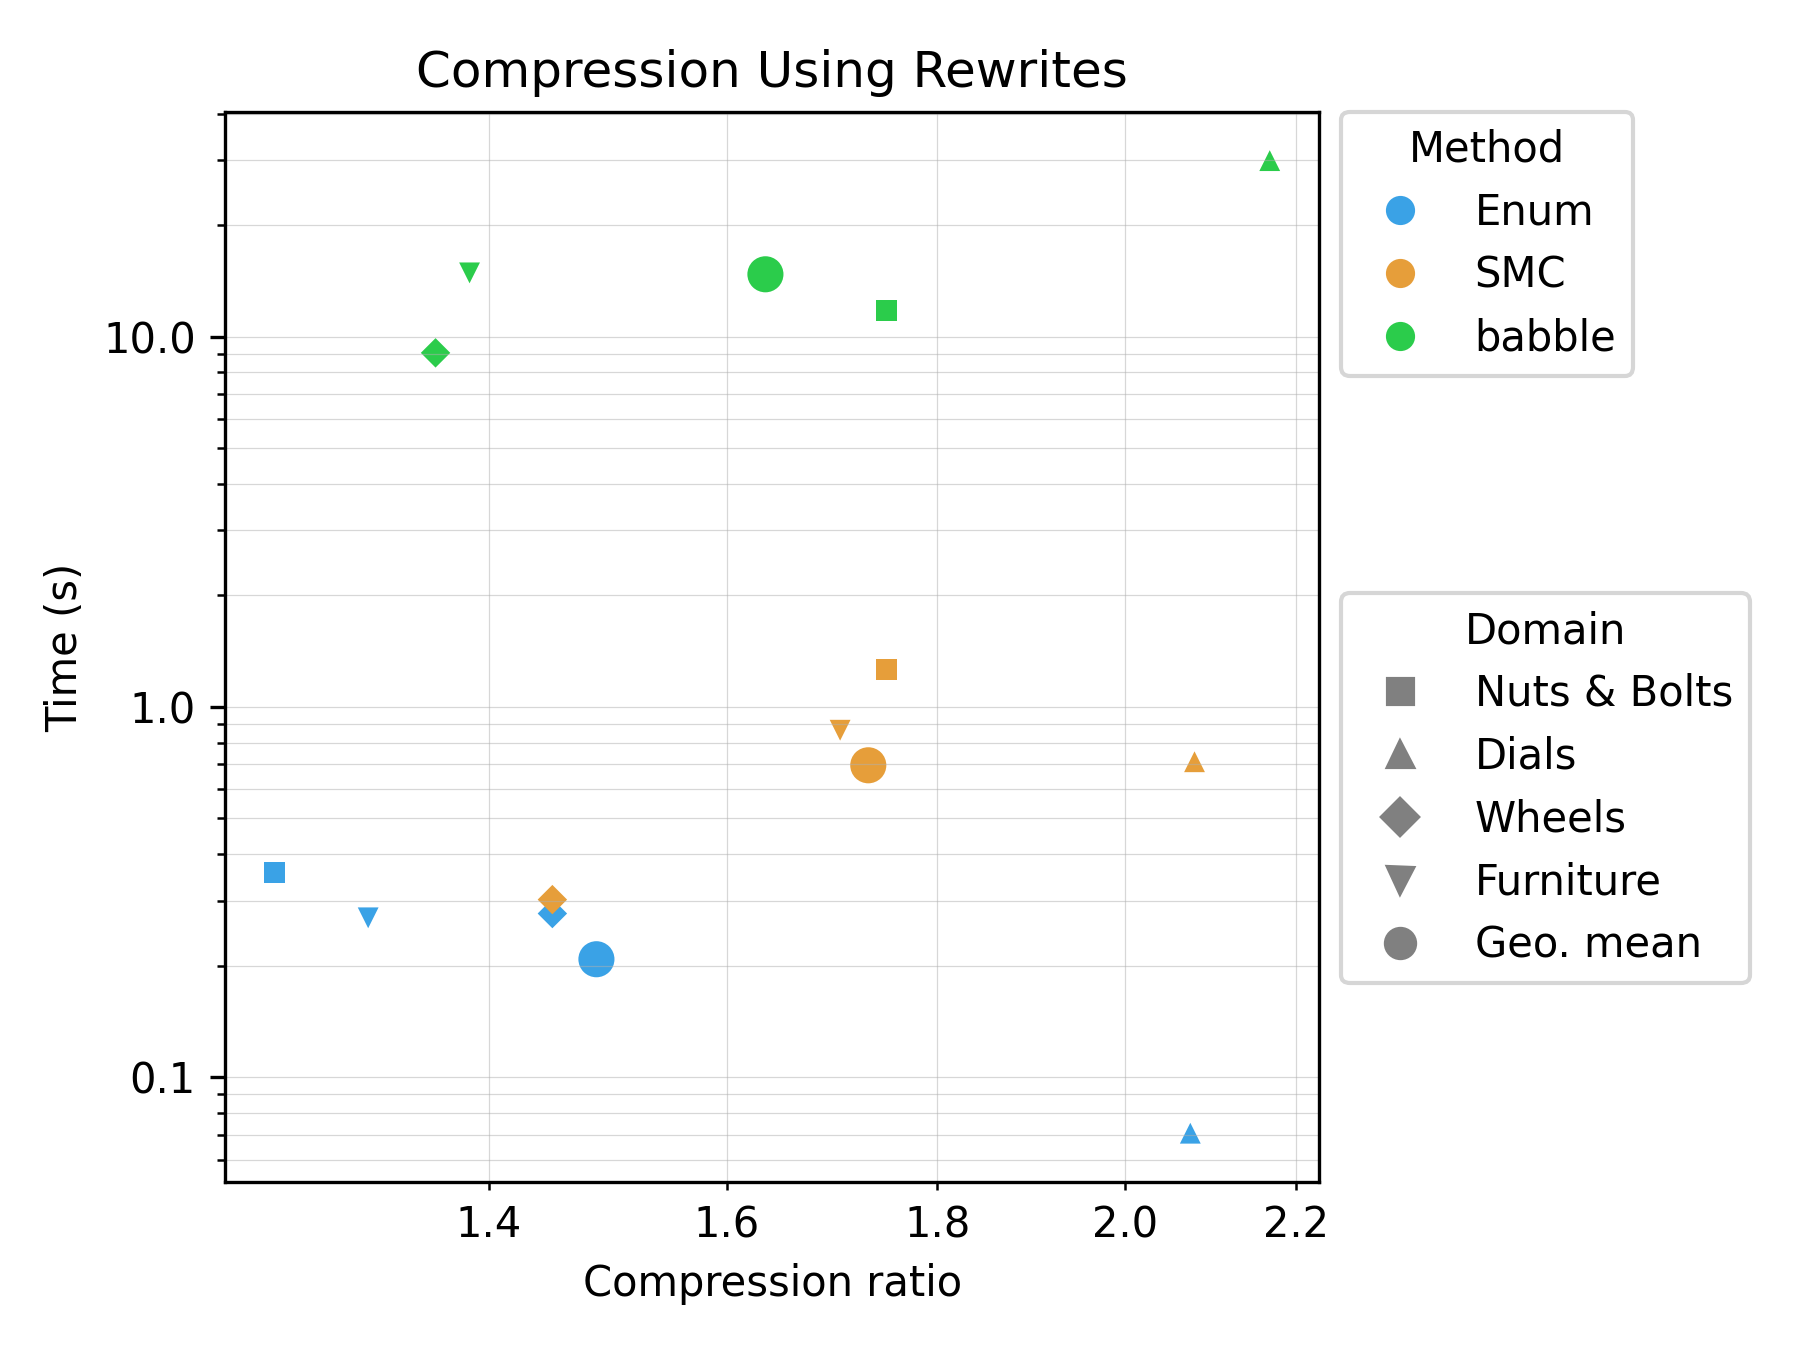
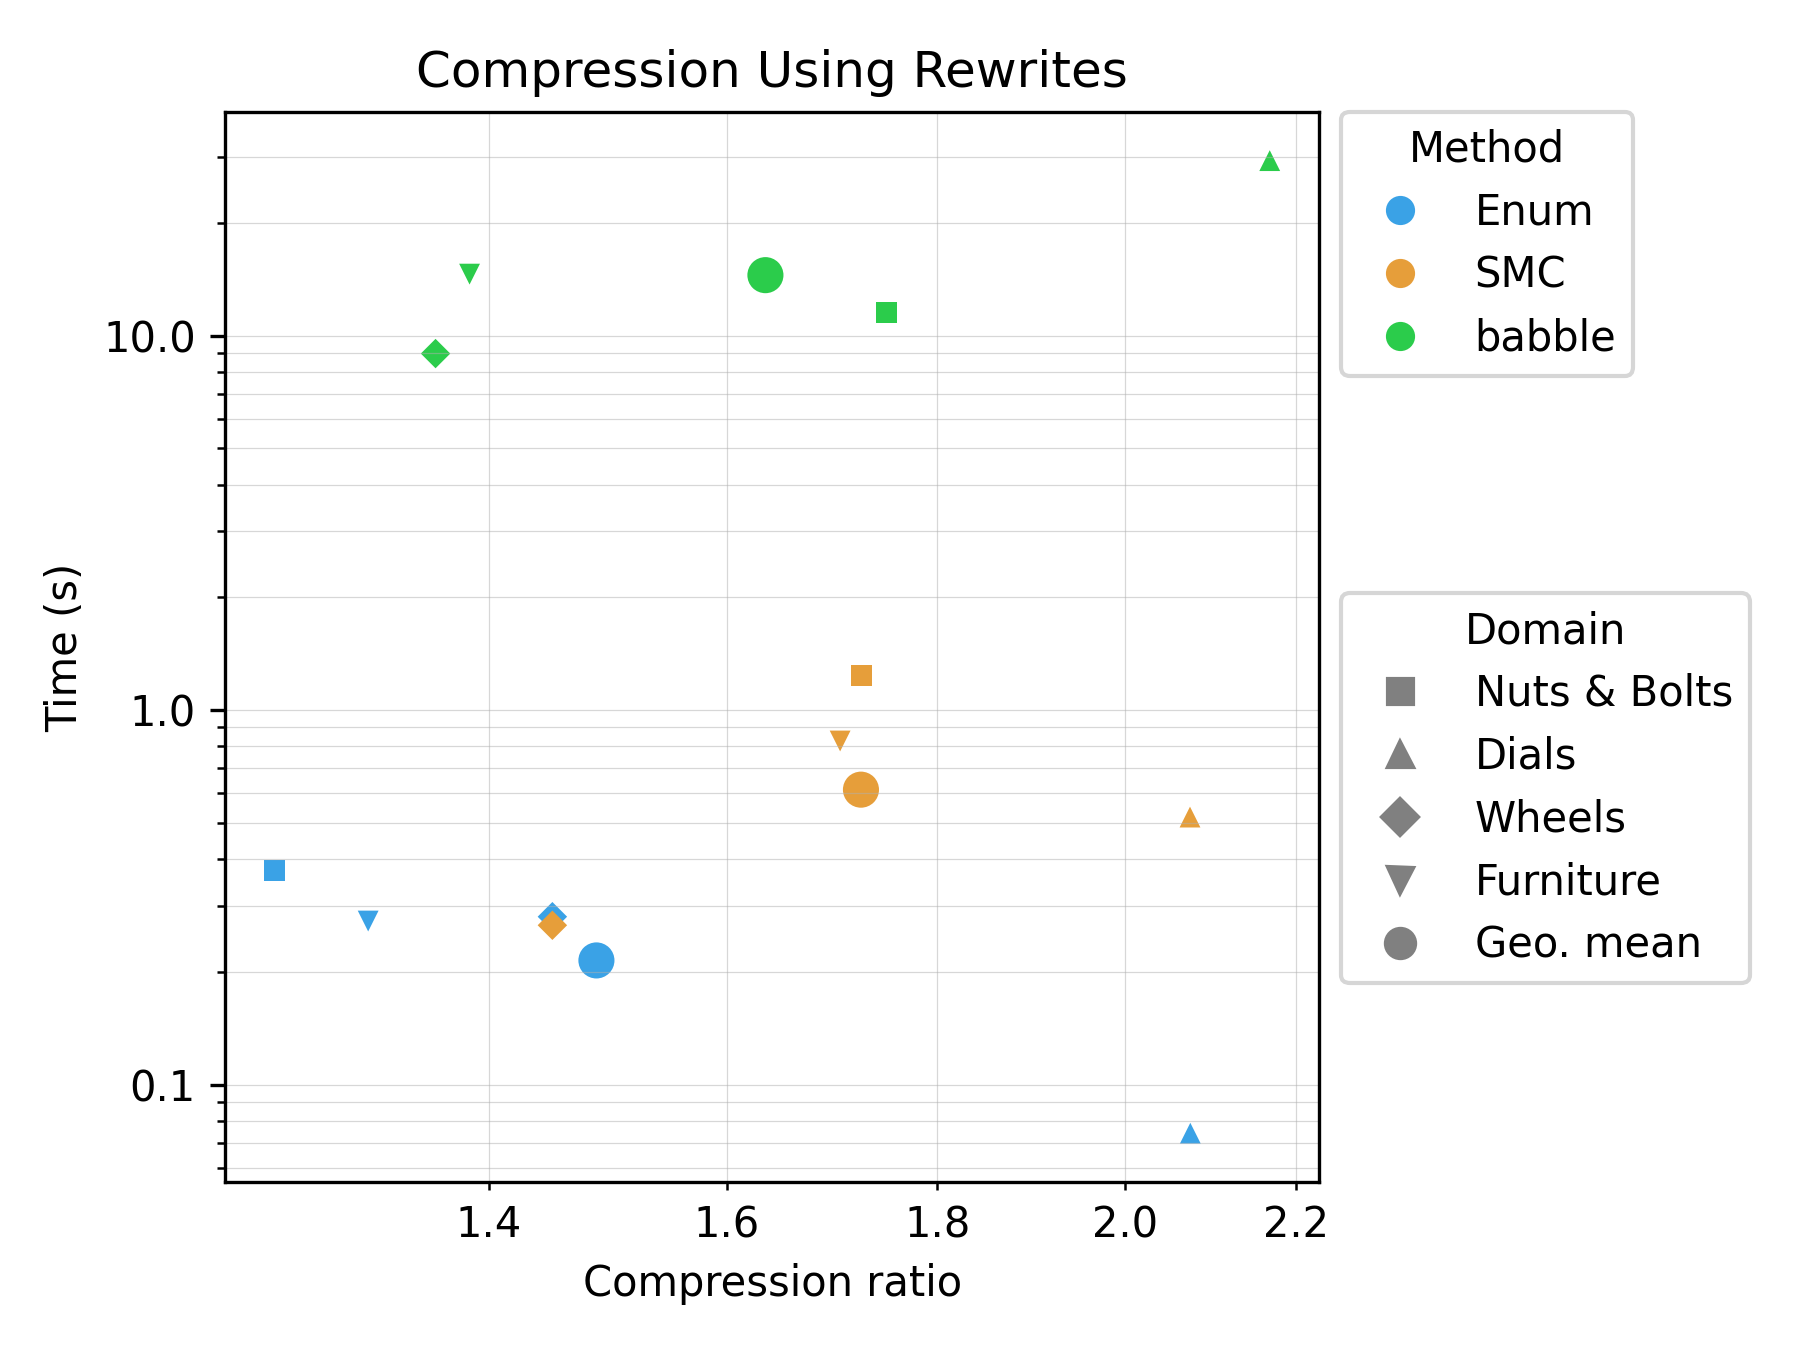
add a tables 3/4 in, these are the 20x version of tables 1/2 (#49)

diff --git a/expts/table3.py b/expts/table3.py
@@ -1,0 +1,36 @@
+"""Table 3 experiment: same as Table 1 but with ``num_abstractions=20``.
+
+Thin wrapper that delegates to :func:`expts.table1.table1`, swapping the
+results folder, output filename, title, and forwarding
+``num_abstractions=20`` so each run stacks 20 abstractions sequentially
+(rather than the single abstraction used by Table 1).
+"""
+
+from pathlib import Path
+
+from .table1 import print_table1, table1
+
+NUM_ABSTRACTIONS = 20
+
+TABLE3_TITLE = (
+    f"Table 3: Ours (SMC and Enum) vs Babble on benchmarks with "
+    f"domain-specific rewrites, stacking {NUM_ABSTRACTIONS} abstractions"
+)
+
+
+def table3(**kwargs) -> Path:
+    """Run the Table 1 setup with ``num_abstractions={NUM_ABSTRACTIONS}``.
+
+    Any keyword arguments accepted by :func:`table1` can be passed through.
+    """
+    kwargs.setdefault("num_abstractions", NUM_ABSTRACTIONS)
+    kwargs.setdefault("rebuild_egraph", True)
+    kwargs.setdefault("folder_prefix", "table3")
+    kwargs.setdefault("output_name", "table3.json")
+    kwargs.setdefault("title", TABLE3_TITLE)
+    return table1(**kwargs)
+
+
+def print_table3(path: str | Path) -> None:
+    """Pretty-print a saved Table 3 JSON (reuses Table 1's renderer)."""
+    print_table1(path)

diff --git a/expts/table4.py b/expts/table4.py
@@ -1,0 +1,36 @@
+"""Table 4 experiment: same as Table 2 but with ``num_abstractions=20``.
+
+Thin wrapper that delegates to :func:`expts.table2.table2`, swapping the
+results folder, output filename, title, and forwarding
+``num_abstractions=20`` so each run stacks 20 abstractions sequentially
+(rather than the single abstraction used by Table 2).
+"""
+
+from pathlib import Path
+
+from .table2 import print_table2, table2
+
+NUM_ABSTRACTIONS = 20
+
+TABLE4_TITLE = (
+    f"Table 4: Ours (SMC and Enum) vs Babble vs Stitch on benchmarks "
+    f"without DSRs, stacking {NUM_ABSTRACTIONS} abstractions"
+)
+
+
+def table4(**kwargs) -> Path:
+    """Run the Table 2 setup with ``num_abstractions={NUM_ABSTRACTIONS}``.
+
+    Any keyword arguments accepted by :func:`table2` can be passed through.
+    """
+    kwargs.setdefault("num_abstractions", NUM_ABSTRACTIONS)
+    kwargs.setdefault("rebuild_egraph", True)
+    kwargs.setdefault("folder_prefix", "table4")
+    kwargs.setdefault("output_name", "table4.json")
+    kwargs.setdefault("title", TABLE4_TITLE)
+    return table2(**kwargs)
+
+
+def print_table4(path: str | Path) -> None:
+    """Pretty-print a saved Table 4 JSON (reuses Table 2's renderer)."""
+    print_table2(path)

diff --git a/expts/table2.py b/expts/table2.py
@@ -22,21 +22,38 @@ from .table1 import TABLE1_DOMAINS, DOMAIN_LABELS, NUM_RUNS
 TABLE2_DOMAINS = TABLE1_DOMAINS
 
 
+DEFAULT_TABLE2_TITLE = "Table 2: Ours (SMC and Enum) vs Babble vs Stitch on benchmarks without DSRs"
+
+MAX_ARITY = 2
+
+
 def table2(
     *,
     smc_num_steps: int = 100,
     smc_num_particles: int = 1000,
     smc_temperature: float = 1000.0,
     enum_num_steps: int = 500,
+    num_abstractions: int = 1,
+    rebuild_egraph: bool = False,
+    folder_prefix: str = "table2",
     output_name: str = "table2.json",
+    title: str = DEFAULT_TABLE2_TITLE,
 ) -> Path:
-    """Run Enum, SMC, babble, and Stitch on the four domains with no DSRs."""
+    """Run Enum, SMC, babble, and Stitch on the four domains with no DSRs.
+
+    ``num_abstractions`` is forwarded to every compressor so each run
+    stacks that many abstractions sequentially.
+    """
     assert all(d in ALL_DOMAINS for d in TABLE2_DOMAINS), "domain typo"
-    set_folder(f"table2/{time.strftime('%Y-%m-%d_%H-%M-%S')}")
+    set_folder(f"{folder_prefix}/{time.strftime('%Y-%m-%d_%H-%M-%S')}")
     results: dict = {
+        "title": title,
         "config": {
             "smc": {"num_steps": smc_num_steps, "num_particles": smc_num_particles, "temperature": smc_temperature},
             "enum": {"num_steps": enum_num_steps},
+            "num_abstractions": num_abstractions,
+            "rebuild_egraph": rebuild_egraph,
+            "max_arity": MAX_ARITY,
         },
         "domains": {},
     }
@@ -46,16 +63,19 @@ def table2(
         enum_runs, smc_runs, babble_runs, stitch_runs = [], [], [], []
         for i in range(NUM_RUNS):
             print(f"  run {i+1}/{NUM_RUNS}", flush=True)
-            enum_res, _ = run_ours(domain, "best-first", num_steps=enum_num_steps, rewrites=None)
+            enum_res, _ = run_ours(domain, "best-first", num_steps=enum_num_steps, rewrites=None, num_abstractions=num_abstractions, rebuild_egraph=rebuild_egraph, max_arity=MAX_ARITY)
             smc_res, _ = run_ours(
                 domain, "smc",
                 num_steps=smc_num_steps,
                 num_particles=smc_num_particles,
                 temperature=smc_temperature,
                 rewrites=None,
+                num_abstractions=num_abstractions,
+                rebuild_egraph=rebuild_egraph,
+                max_arity=MAX_ARITY,
             )
-            babble_res = run_babble(domain)
-            stitch_res = run_stitch(domain)
+            babble_res = run_babble(domain, num_abstractions=num_abstractions, max_arity=MAX_ARITY)
+            stitch_res = run_stitch(domain, num_abstractions=num_abstractions, max_arity=MAX_ARITY)
             enum_runs.append(enum_res.to_dict())
             smc_runs.append(smc_res.to_dict())
             babble_runs.append(babble_res.to_dict())
@@ -93,7 +113,7 @@ def print_table2(path: str | Path) -> None:
         f"{'Enum':>10}{'SMC':>10}{'babble':>8}{'Stitch':>8}"
     )
     print()
-    print("Table 2: Ours (SMC and Enum) vs Babble vs Stitch on benchmarks without DSRs")
+    print(saved.get("title", DEFAULT_TABLE2_TITLE))
     print()
     print(header_top)
     print(header_sub)

diff --git a/scripts/render_tables.py b/scripts/render_tables.py
@@ -1,5 +1,5 @@
 #!/usr/bin/env python3
-"""Render Table 1 / Table 2 JSON result files as LaTeX tabulars (and plots).
+"""Render Table 1-4 JSON result files as LaTeX tabulars (and plots).
 
 By default, picks the newest timestamped run under
 ``viz/results/tableN/<timestamp>/tableN.json``. Pass an explicit JSON path to
@@ -28,7 +28,14 @@ DOMAIN_LABELS = {
 }
 METHODS = ["enum", "smc", "babble", "stitch"]
 METHOD_LABELS = {"enum": "Enum", "smc": "SMC", "babble": "babble", "stitch": "Stitch"}
-TABLE_TITLES = {1: "Compression Using Rewrites", 2: "Compression Without Rewrites"}
+TABLE_TITLES = {
+    1: "Compression Using Rewrites",
+    2: "Compression Without Rewrites",
+    3: "Compression Using Rewrites, Stacked Abstractions",
+    4: "Compression Without Rewrites, Stacked Abstractions",
+}
+# Tables that include an "E-graph min term size" column (runs with DSRs).
+TABLES_WITH_EGRAPH_MIN = {1, 3}
 
 # Plot styling: each method gets a color, each domain a marker. Keeping these
 # as module-level dicts makes it easy to extend with new methods/domains.
@@ -125,13 +132,14 @@ def bold_best(xs: list[float | None], spec: str,
 def render(saved: dict, table: int) -> str:
     """Return a LaTeX ``tabular`` string for the given loaded results dict."""
     domains = saved["domains"]
-    # Table 1 runs with DSRs which Stitch doesn't accept; show the column
-    # anyway with N/A so the layout matches Table 2.
+    # Tables 1 & 3 run with DSRs (which Stitch doesn't accept); show the
+    # Stitch column anyway with N/A so the layout matches Table 2.
     methods = METHODS
     n = len(methods)
+    has_egraph_min = table in TABLES_WITH_EGRAPH_MIN
 
-    # Column layout: domain, original size, (egraph-min for table1,) CRs, times.
-    extra_col = "r" if table == 1 else ""
+    # Column layout: domain, original size, (egraph-min for DSR tables,) CRs, times.
+    extra_col = "r" if has_egraph_min else ""
     col_spec = "l r " + extra_col + " " + ("r" * n) + " " + ("r" * n)
 
     lines = []
@@ -140,7 +148,7 @@ def render(saved: dict, table: int) -> str:
     lines.append("\\toprule")
 
     # Header row 1: group spans.
-    size_cols = 2 if table == 1 else 1
+    size_cols = 2 if has_egraph_min else 1
     lines.append(
         f"& \\multicolumn{{{size_cols}}}{{c}}{{Size}} "
         f"& \\multicolumn{{{n}}}{{c}}{{Compression Ratio}} "
@@ -155,7 +163,7 @@ def render(saved: dict, table: int) -> str:
     lines.append(" ".join(mid))
 
     # Header row 2: column names.
-    size_hdr = "Original & E-graph min" if table == 1 else "Original"
+    size_hdr = "Original & E-graph min" if has_egraph_min else "Original"
     method_hdr = " & ".join(METHOD_LABELS[m] for m in methods)
     lines.append(
         f"Domain & {size_hdr} & {method_hdr} & {method_hdr} \\\\"
@@ -186,7 +194,7 @@ def render(saved: dict, table: int) -> str:
 
     for label, original, egraph_min, crs, ts in rows:
         size_cells = [fmt(original, "d")]
-        if table == 1:
+        if has_egraph_min:
             size_cells.append(fmt(egraph_min, "d"))
         lines.append(emit(label, size_cells, crs, ts))
 
@@ -195,7 +203,7 @@ def render(saved: dict, table: int) -> str:
         lines.append("\\midrule")
         agg_cr = [geomean_col([r[3][i] for r in rows]) for i in range(n)]
         agg_t = [geomean_col([r[4][i] for r in rows]) for i in range(n)]
-        size_cells = ["" ] * (2 if table == 1 else 1)
+        size_cells = [""] * (2 if has_egraph_min else 1)
         lines.append(emit("Geo. mean", size_cells, agg_cr, agg_t))
 
     lines.append("\\bottomrule")
@@ -301,7 +309,7 @@ def main() -> None:
 
     FIGURES_DIR.mkdir(exist_ok=True)
     chunks = []
-    for table in (1, 2):
+    for table in (1, 2, 3, 4):
         path = latest_json(table)
         with open(path) as f:
             saved = json.load(f)

diff --git a/expts/table1.py b/expts/table1.py
@@ -30,6 +30,8 @@ DOMAIN_LABELS = {
 
 DEFAULT_TABLE1_TITLE = "Table 1: Ours (SMC and Enum) vs Babble on benchmarks with domain-specific rewrites"
 
+MAX_ARITY = 2
+
 
 def table1(
     *,
@@ -61,6 +63,7 @@ def table1(
             "enum": {"num_steps": enum_num_steps},
             "num_abstractions": num_abstractions,
             "rebuild_egraph": rebuild_egraph,
+            "max_arity": MAX_ARITY,
         },
         "domains": {},
     }
@@ -71,7 +74,7 @@ def table1(
         egraph_min = None
         for i in range(NUM_RUNS):
             print(f"  run {i+1}/{NUM_RUNS}", flush=True)
-            enum_res, egraph_min = run_ours(domain, "best-first", num_steps=enum_num_steps, num_abstractions=num_abstractions, rebuild_egraph=rebuild_egraph)
+            enum_res, egraph_min = run_ours(domain, "best-first", num_steps=enum_num_steps, num_abstractions=num_abstractions, rebuild_egraph=rebuild_egraph, max_arity=MAX_ARITY)
             smc_res, _ = run_ours(
                 domain, "smc",
                 num_steps=smc_num_steps,
@@ -79,8 +82,9 @@ def table1(
                 temperature=smc_temperature,
                 num_abstractions=num_abstractions,
                 rebuild_egraph=rebuild_egraph,
+                max_arity=MAX_ARITY,
             )
-            babble_res = run_babble(domain, dsr=rewrites_path(domain), num_abstractions=num_abstractions)
+            babble_res = run_babble(domain, dsr=rewrites_path(domain), num_abstractions=num_abstractions, max_arity=MAX_ARITY)
             enum_runs.append(enum_res.to_dict())
             smc_runs.append(smc_res.to_dict())
             babble_runs.append(babble_res.to_dict())

diff --git a/expts/egg_stitch.py b/expts/egg_stitch.py
@@ -42,7 +42,7 @@ def egg_stitch(input, output="out.json", rewrites=None, flamegraph=False, samply
 _UNSET = object()
 
 
-def run_ours(domain: str, search: str, *, num_steps: int, rewrites=_UNSET, **extra) -> tuple[Result, int | None]:
+def run_ours(domain: str, search: str, *, num_steps: int, max_arity: int, rewrites=_UNSET, **extra) -> tuple[Result, int | None]:
     """Run our compressor on ``domain``.
 
     ``rewrites`` defaults to the domain's standard rewrite file; pass
@@ -61,7 +61,7 @@ def run_ours(domain: str, search: str, *, num_steps: int, rewrites=_UNSET, **ext
         output=f"{domain}_{search.replace('-', '_')}.json",
         search=search,
         num_steps=num_steps,
-        max_arity=2,
+        max_arity=max_arity,
         **extra,
     )
     with open(output) as f:

diff --git a/expts/__init__.py b/expts/__init__.py
@@ -52,6 +52,8 @@ from .babble import *
 from .stitch import *
 from .table1 import *
 from .table2 import *
+from .table3 import *
+from .table4 import *
 
 
 

diff --git a/expts/babble.py b/expts/babble.py
@@ -7,7 +7,7 @@ from . import BABBLE_BIN, BABBLE_DIR
 from .result import Result, ratio
 
 
-def run_babble(domain: str, *, dsr: str | None = None, num_abstractions: int = 1) -> Result:
+def run_babble(domain: str, *, dsr: str | None = None, num_abstractions: int = 1, max_arity: int) -> Result:
     """Run babble on a cogsci ``domain`` and return a :class:`Result`.
 
     When ``dsr`` is provided, it is passed to babble as ``--dsr`` so the

diff --git a/expts/stitch.py b/expts/stitch.py
@@ -32,7 +32,7 @@ def ast_size(programs: list[str]) -> int:
     return total
 
 
-def run_stitch(domain: str, *, num_abstractions: int = 1) -> Result:
+def run_stitch(domain: str, *, num_abstractions: int = 1, max_arity: int) -> Result:
     """Run stitch on ``domain``.
 
     ``num_abstractions`` maps to stitch's ``-i`` (iterations) flag, so it